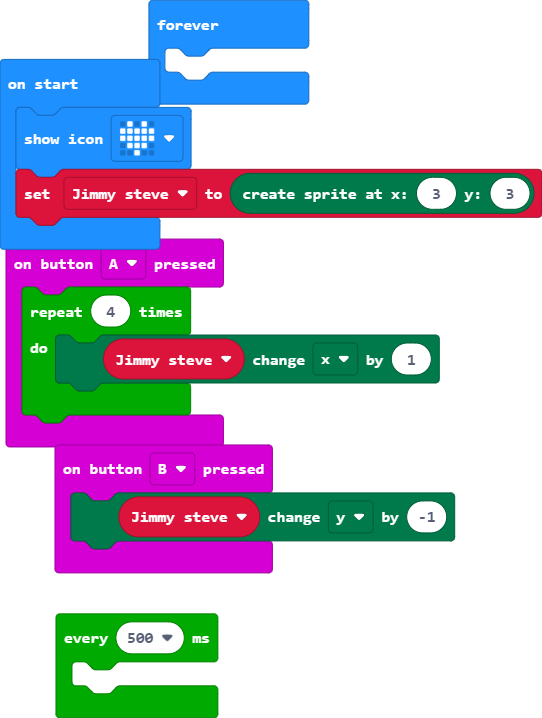
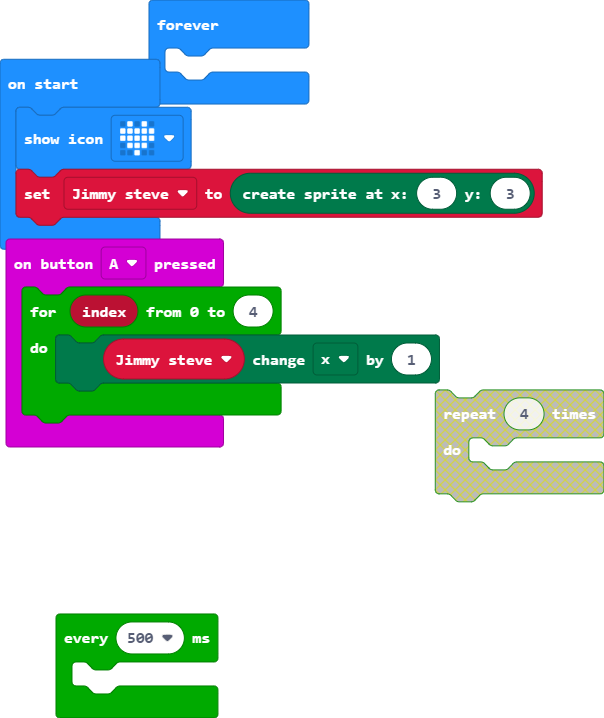
Update main.blocks, main.ts

diff --git a/main.ts b/main.ts
@@ -1,10 +1,7 @@
 input.onButtonPressed(Button.A, function () {
-    for (let index = 0; index < 4; index++) {
+    for (let index = 0; index <= 4; index++) {
         Jimmy_steve.change(LedSpriteProperty.X, 1)
     }
-})
-input.onButtonPressed(Button.B, function () {
-    Jimmy_steve.change(LedSpriteProperty.Y, -1)
 })
 let Jimmy_steve: game.LedSprite = null
 basic.showIcon(IconNames.Heart)
